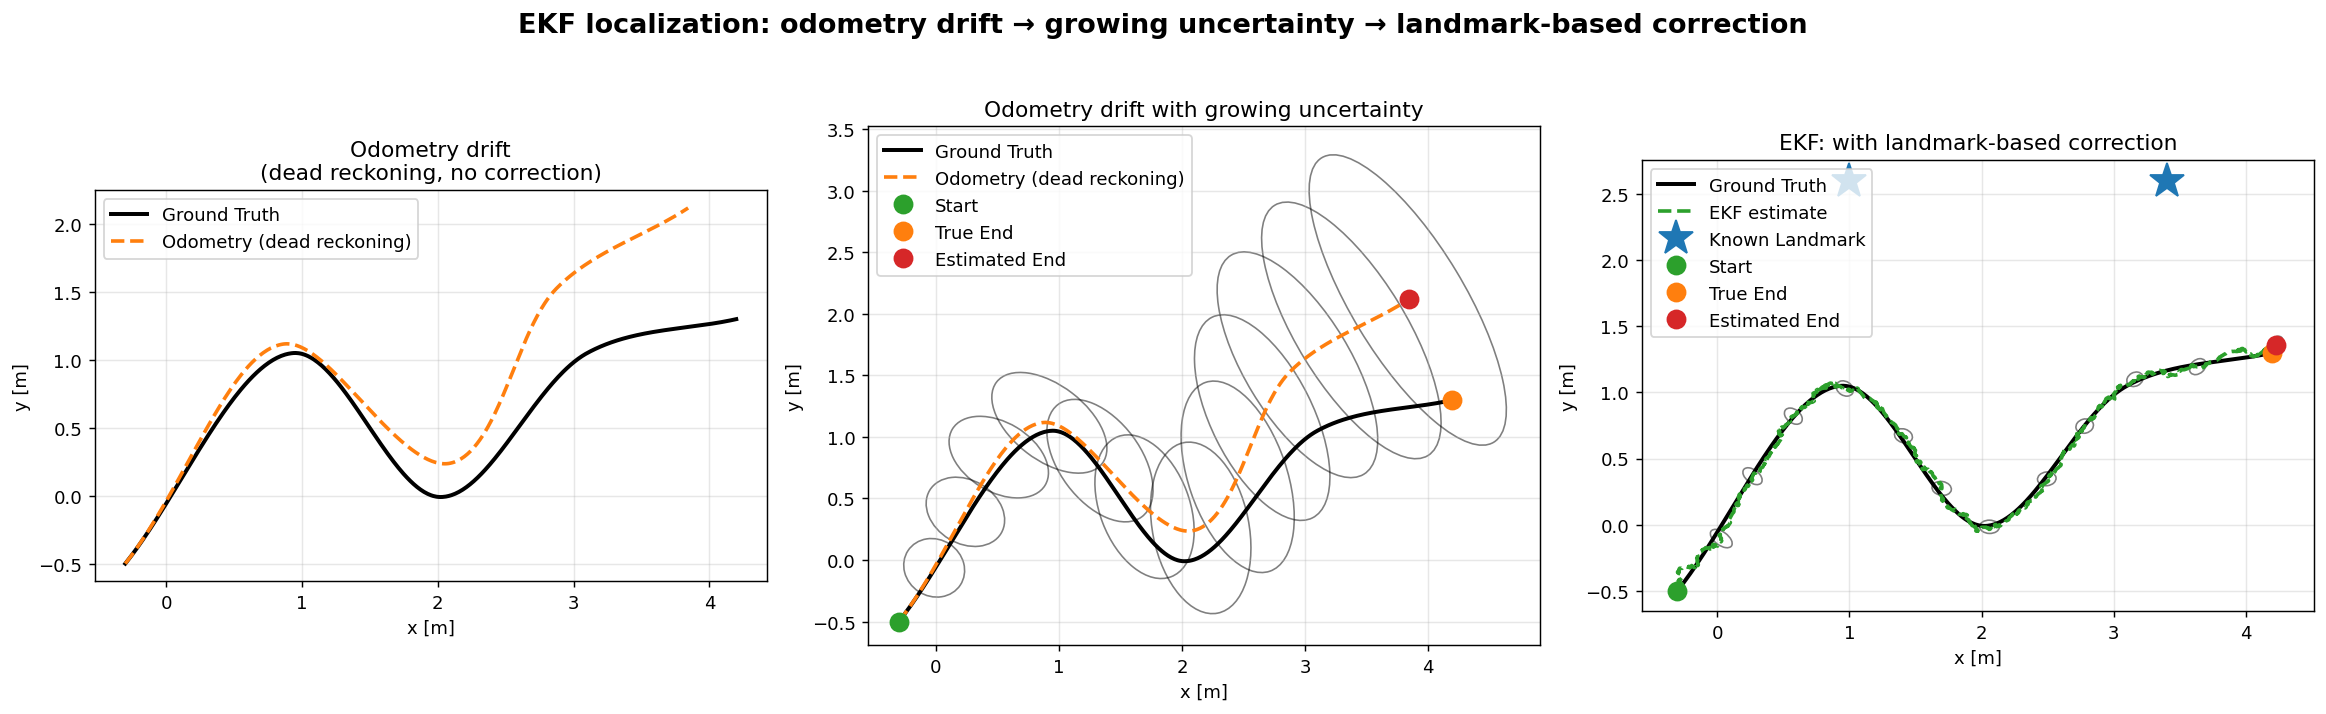
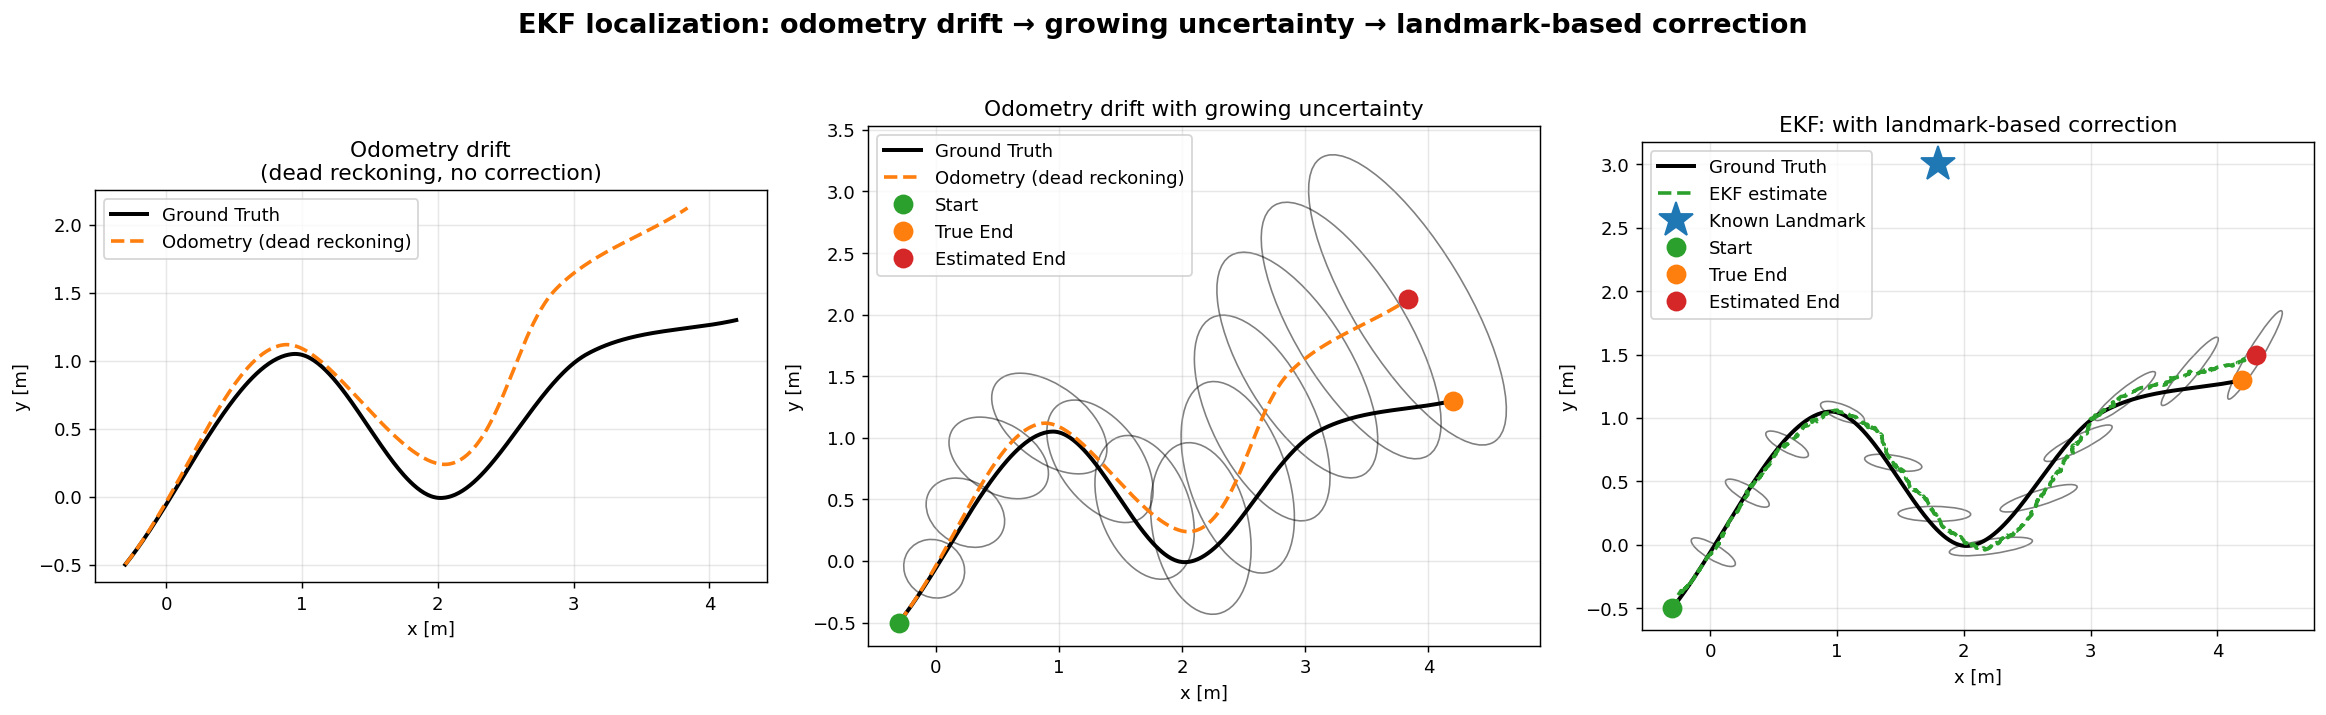
Fix landmark consistency in EKF-localization figure + note RViz2
Regenerate ekf_localization with the single landmark at (1.8,3.0) used
throughout the rest of the paper (was two landmarks); update caption and the
odometry/EKF end-error figures (0.90 m vs 0.23 m). Add a sentence noting the
live RViz 2 visualisation of poses, covariances, particle cloud and landmark.

diff --git a/ProbRob_Paper_Template_Englisch/ProbRob_Paper_Template_Englisch.tex b/ProbRob_Paper_Template_Englisch/ProbRob_Paper_Template_Englisch.tex
@@ -173,7 +173,9 @@ a low-variance (systematic) resampler; the reported state is the weighted mean
 
 An IMU-simulator ROS\,2 node drives the spline at 50\,Hz and publishes the exact
 pose as ground truth.
-Each filter logs its estimate and covariance to CSV for off-line analysis.
+All three filter poses, their covariance ellipses, the particle cloud and the
+landmark are visualised live in RViz\,2; each filter additionally logs its
+estimate and covariance to CSV for off-line analysis.
 The primary metric is position RMSE,
 $\text{RMSE} = \sqrt{\tfrac{1}{N}\sum_k (e_{x,k}^2 + e_{y,k}^2)}$,
 complemented by heading RMSE and per-step runtime.
@@ -267,16 +269,16 @@ The centre panel adds the growing covariance circles, whose radius expands with
 travelled distance.
 The right panel shows the EKF output: with periodic landmark updates the
 estimate snaps back onto the true track and the covariance stays bounded.
-The odometry ends $0.89$\,m from the true end, whereas the landmark-corrected
-EKF ends only $0.07$\,m away.
+The odometry ends $0.90$\,m from the true end, whereas the landmark-corrected
+EKF ends only $0.23$\,m away.
 
 \begin{figure*}[!t]
   \centering
   \includegraphics[width=0.95\textwidth]{images/ekf_localization.png}
   \caption{EKF localization on the S-slalom. Left: odometry drift without
            corrections. Centre: growing uncertainty (dead-reckoning only).
-           Right: EKF estimate with landmark-based correction; two known
-           landmarks (stars) keep the estimate on the true path.}
+           Right: EKF estimate with landmark-based correction; the known
+           landmark (star) keeps the estimate on the true path.}
   \label{fig:ekfloc}
 \end{figure*}
 

diff --git a/prol_filters/scripts/plot_localization.py b/prol_filters/scripts/plot_localization.py
@@ -22,7 +22,7 @@ from matplotlib.patches import Ellipse
 # ── Current route (must match imu_simulator.py waypoint defaults) ─────────────
 WPX = [-0.3, 0.94, 2.02, 3.10, 4.2]
 WPY = [-0.5, 1.05, -0.01, 1.05, 1.3]
-LANDMARKS = [(1.0, 2.6), (3.4, 2.6)]    # two known landmarks, off the path
+LANDMARKS = [(1.8, 3.0)]    # single known landmark, off the path (matches the rest of the study)
 V, DT = 0.12, 0.02
 GYRO_BIAS = 0.007            # systematic heading drift (odometry error source)
 GYRO_NOISE = 0.004